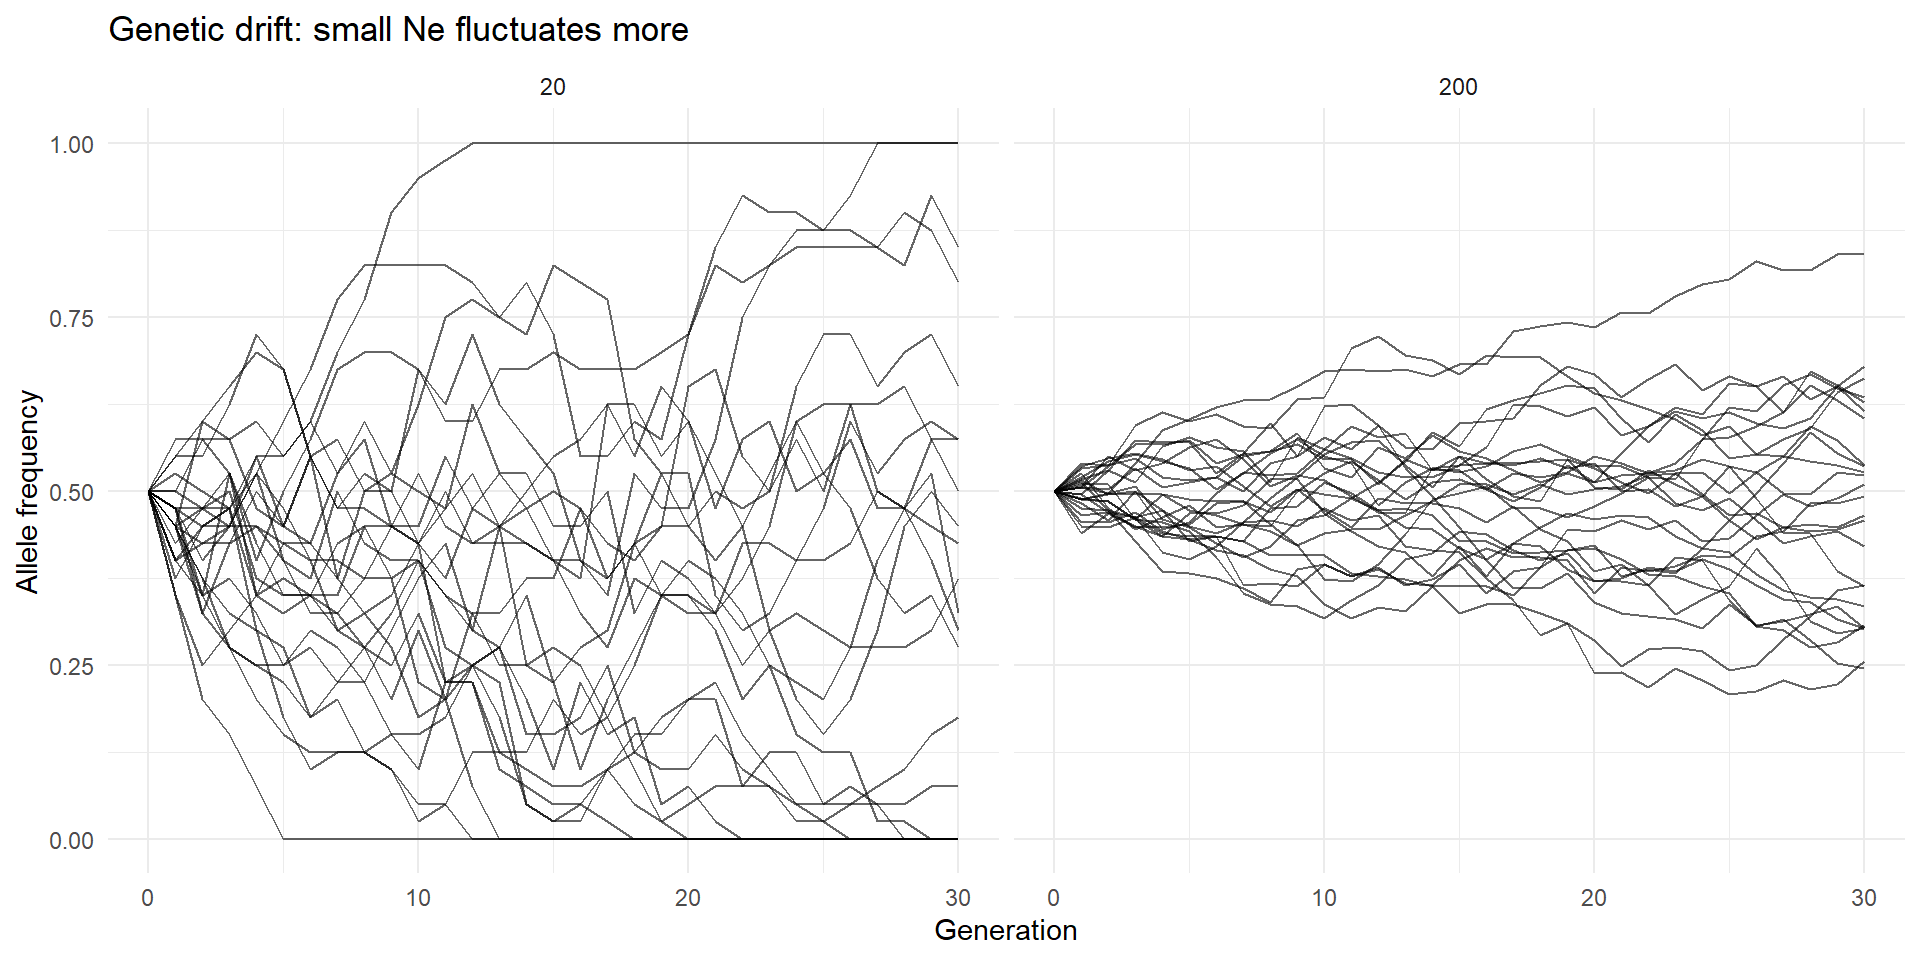
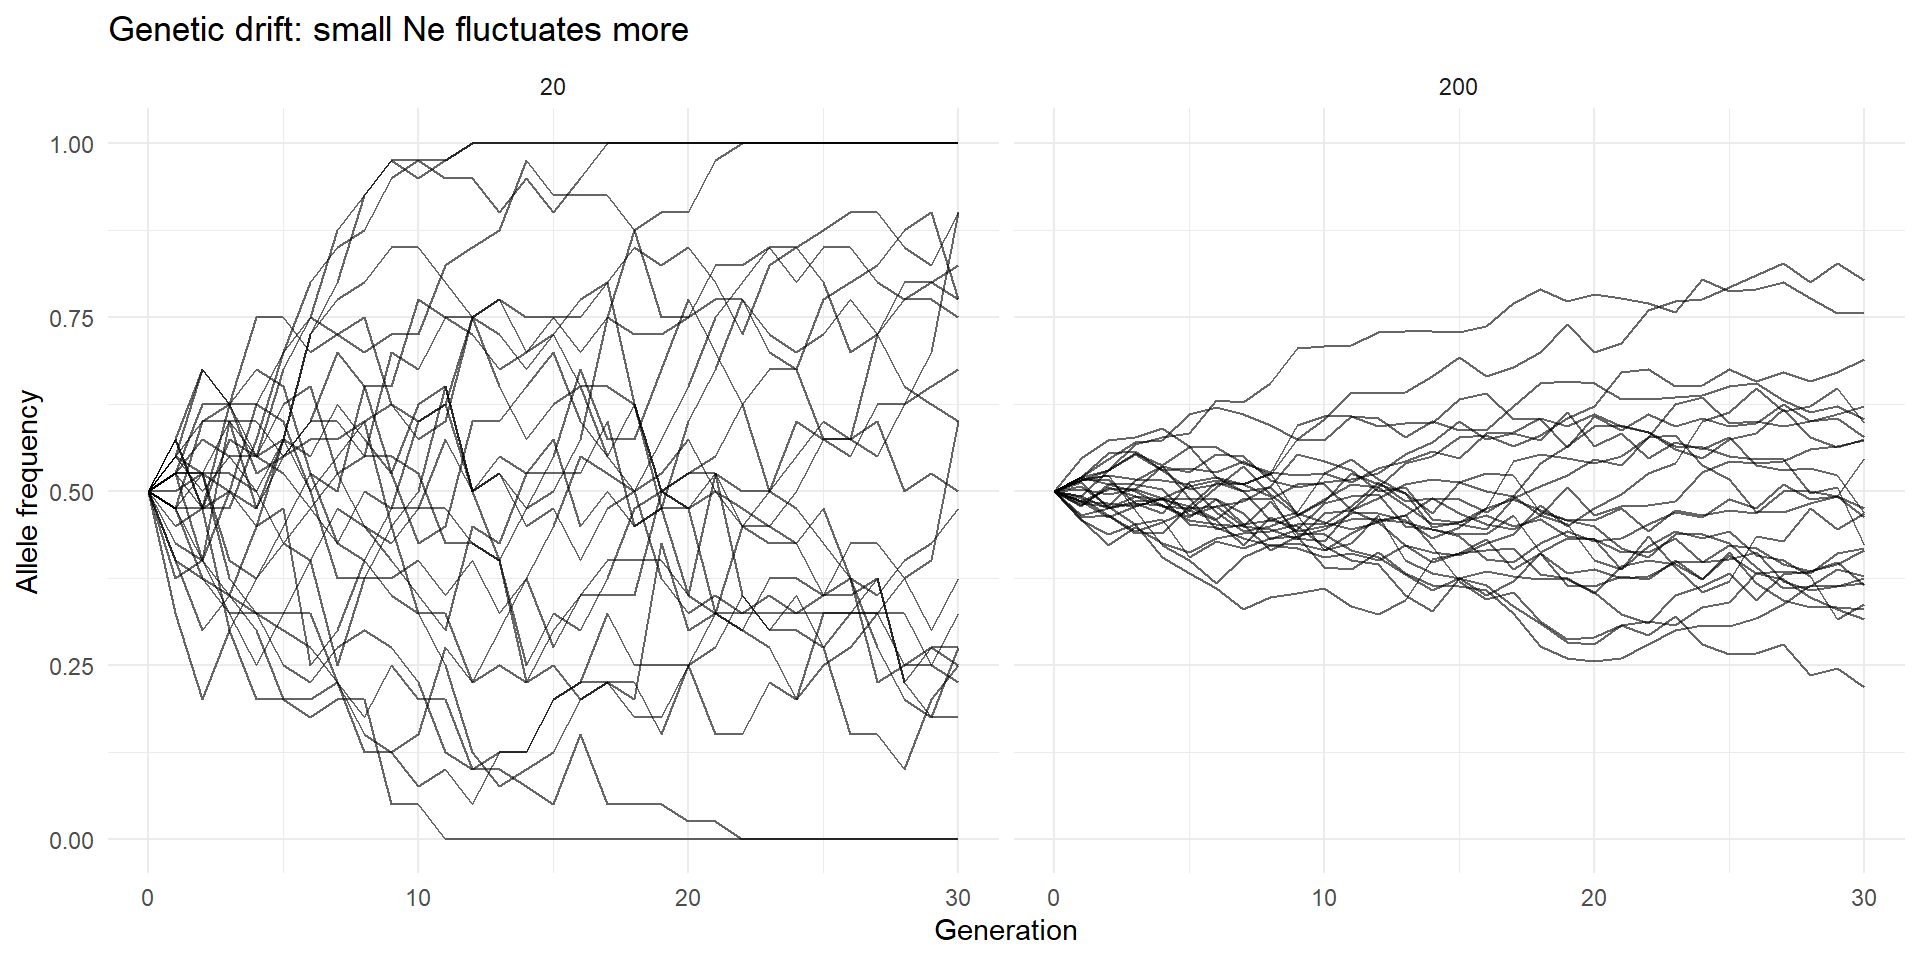
updates

diff --git a/docs/quant-genetics/index.html b/docs/quant-genetics/index.html
@@ -21,6 +21,41 @@ ul.task-list li input[type="checkbox"] {
   margin: 0 0.8em 0.2em -1em; /* quarto-specific, see https://github.com/quarto-dev/quarto-cli/issues/4556 */ 
   vertical-align: middle;
 }
+/* CSS for syntax highlighting */
+html { -webkit-text-size-adjust: 100%; }
+pre > code.sourceCode { white-space: pre; position: relative; }
+pre > code.sourceCode > span { display: inline-block; line-height: 1.25; }
+pre > code.sourceCode > span:empty { height: 1.2em; }
+.sourceCode { overflow: visible; }
+code.sourceCode > span { color: inherit; text-decoration: inherit; }
+div.sourceCode { margin: 1em 0; }
+pre.sourceCode { margin: 0; }
+@media screen {
+div.sourceCode { overflow: auto; }
+}
+@media print {
+pre > code.sourceCode { white-space: pre-wrap; }
+pre > code.sourceCode > span { text-indent: -5em; padding-left: 5em; }
+}
+pre.numberSource code
+  { counter-reset: source-line 0; }
+pre.numberSource code > span
+  { position: relative; left: -4em; counter-increment: source-line; }
+pre.numberSource code > span > a:first-child::before
+  { content: counter(source-line);
+    position: relative; left: -1em; text-align: right; vertical-align: baseline;
+    border: none; display: inline-block;
+    -webkit-touch-callout: none; -webkit-user-select: none;
+    -khtml-user-select: none; -moz-user-select: none;
+    -ms-user-select: none; user-select: none;
+    padding: 0 4px; width: 4em;
+  }
+pre.numberSource { margin-left: 3em;  padding-left: 4px; }
+div.sourceCode
+  {   }
+@media screen {
+pre > code.sourceCode > span > a:first-child::before { text-decoration: underline; }
+}
 </style>
 
 
@@ -251,6 +286,52 @@ window.Quarto = {
 <li><strong>Pedigrees &amp; History:</strong> Plotting family trees to clarify inbreeding and utilizing coalescent models to examine ancestral history.</li>
 </ul>
 <p><strong>Use of Code:</strong> The R code is provided as a starting point for experimentation. The modification of parameters—such as changing the population size or the strength of selection—allows for the observation of changes in genetic outcomes.</p>
+</section>
+<section id="interactive-laboratory" class="level2">
+<h2 class="anchored" data-anchor-id="interactive-laboratory">Interactive Laboratory</h2>
+<p>This course includes interactive tools that let you explore key ideas in population and quantitative genetics by changing parameters and immediately seeing the consequences.</p>
+<section id="population-genetics-simulators" class="level3">
+<h3 class="anchored" data-anchor-id="population-genetics-simulators">Population Genetics Simulators</h3>
+<ul>
+<li><p><strong>Hardy–Weinberg Explorer</strong><br>
+Explore genotype and allele frequencies under Hardy–Weinberg assumptions.<br>
+🔗 <a href="https://yourapp.shinyapps.io/hwe_app">Launch app</a></p></li>
+<li><p><strong>Genetic Drift Simulator</strong><br>
+Simulate drift under different population sizes and starting allele frequencies.<br>
+🔗 <a href="https://yourapp.shinyapps.io/drift_app">Launch app</a></p></li>
+<li><p><strong>Selection Dynamics</strong><br>
+Explore directional and balancing selection across generations.<br>
+🔗 <a href="https://yourapp.shinyapps.io/selection_app">Launch app</a></p></li>
+</ul>
+</section>
+<section id="quantitative-genetics-tools" class="level3">
+<h3 class="anchored" data-anchor-id="quantitative-genetics-tools">Quantitative Genetics Tools</h3>
+<ul>
+<li><p><strong>Heritability Estimation Using Different Types of Relatives</strong><br>
+Estimate narrow-sense heritability using regression on relatives.<br>
+🔗 <a href="https://peter-soerensen.shinyapps.io/estimation_heritability_regression">Launch app</a></p></li>
+<li><p><strong>Breeding Value Estimation from a Single Information Source</strong><br>
+Investigate estimation of additive genetic effects based on limited data.<br>
+🔗 <a href="https://peter-soerensen.shinyapps.io/estimation_breeding_value_single_source/">Launch app</a></p></li>
+</ul>
+</section>
+<section id="downloadable-r-scripts" class="level3">
+<h3 class="anchored" data-anchor-id="downloadable-r-scripts">Downloadable R Scripts</h3>
+<p>Some tools are provided as standalone R scripts for local execution:</p>
+<ul>
+<li><p><strong>Hardy–Weinberg simulation script</strong><br>
+💾 <a href="apps/hwe_simulation.R">Download</a></p></li>
+<li><p><strong>Drift simulatio script</strong><br>
+💾 <a href="apps/drift_example.R">Download</a></p></li>
+</ul>
+<p>To run a script locally:</p>
+<div class="cell">
+<div class="sourceCode cell-code" id="cb1"><pre class="sourceCode r code-with-copy"><code class="sourceCode r"><span id="cb1-1"><a href="#cb1-1" aria-hidden="true" tabindex="-1"></a><span class="fu">source</span>(<span class="st">"apps/hwe_simulation.R"</span>)</span></code><button title="Copy to Clipboard" class="code-copy-button"><i class="bi"></i></button></pre></div>
+<div class="cell-output cell-output-stderr">
+<pre><code>Warning: pakke 'ggplot2' blev bygget under R version 4.4.3</code></pre>
+</div>
+</div>
+</section>
 </section>
 <section id="prerequisites" class="level2">
 <h2 class="anchored" data-anchor-id="prerequisites">Prerequisites</h2>

diff --git a/docs/quant-genetics/slides/introduction_quantitative_genetics.html b/docs/quant-genetics/slides/introduction_quantitative_genetics.html
@@ -447,7 +447,6 @@ f(x) = \frac{1}{\sqrt{2\pi\sigma^2}}
 <h2>The Mean</h2>
 <div class="columns">
 <div class="column" style="width:50%;">
-<p><strong>Definition</strong></p>
 <p>When studying quantitative traits, we usually sample from a population.</p>
 <p><br></p>
 <p>Sample mean:</p>
@@ -505,7 +504,6 @@ Even though the sample size here is only five individuals, the exact same comput
 <h2>The Variance</h2>
 <div class="columns">
 <div class="column" style="width:50%;">
-<p><strong>Definition</strong></p>
 <p>Variance describes the spread of the data.</p>
 <p>Deviation from the mean:</p>
 <p><span class="math display">\[
